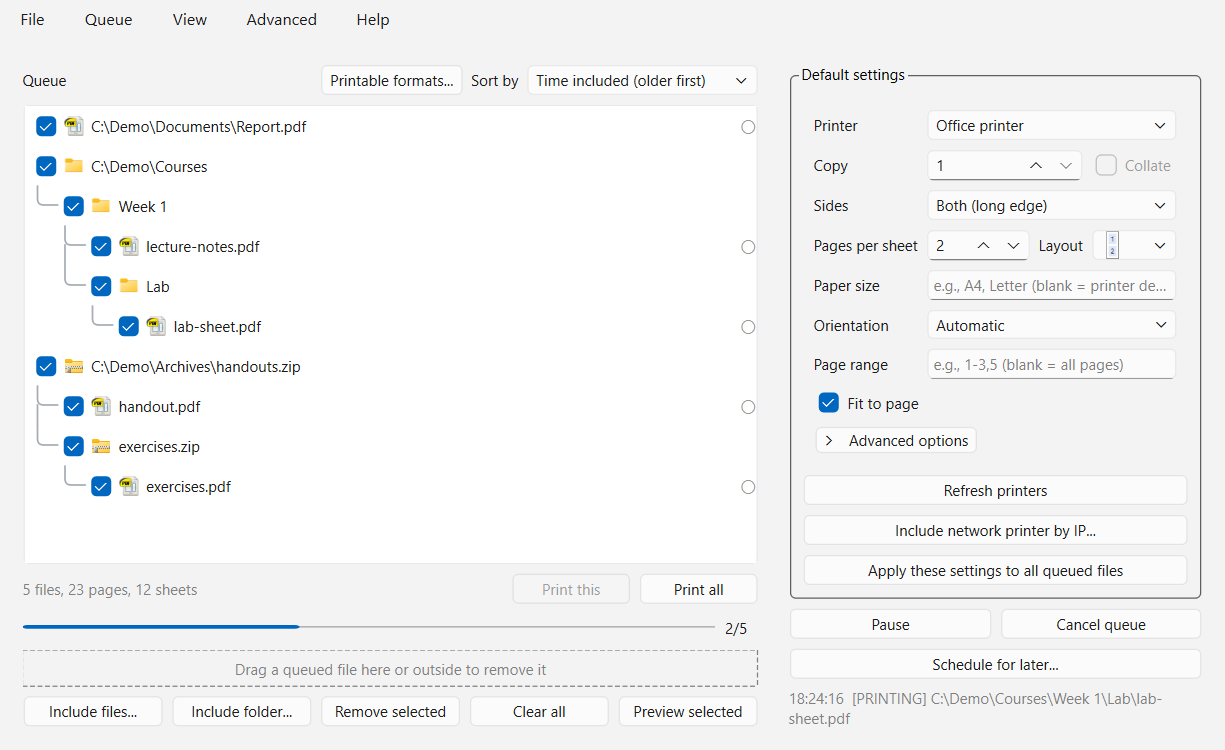
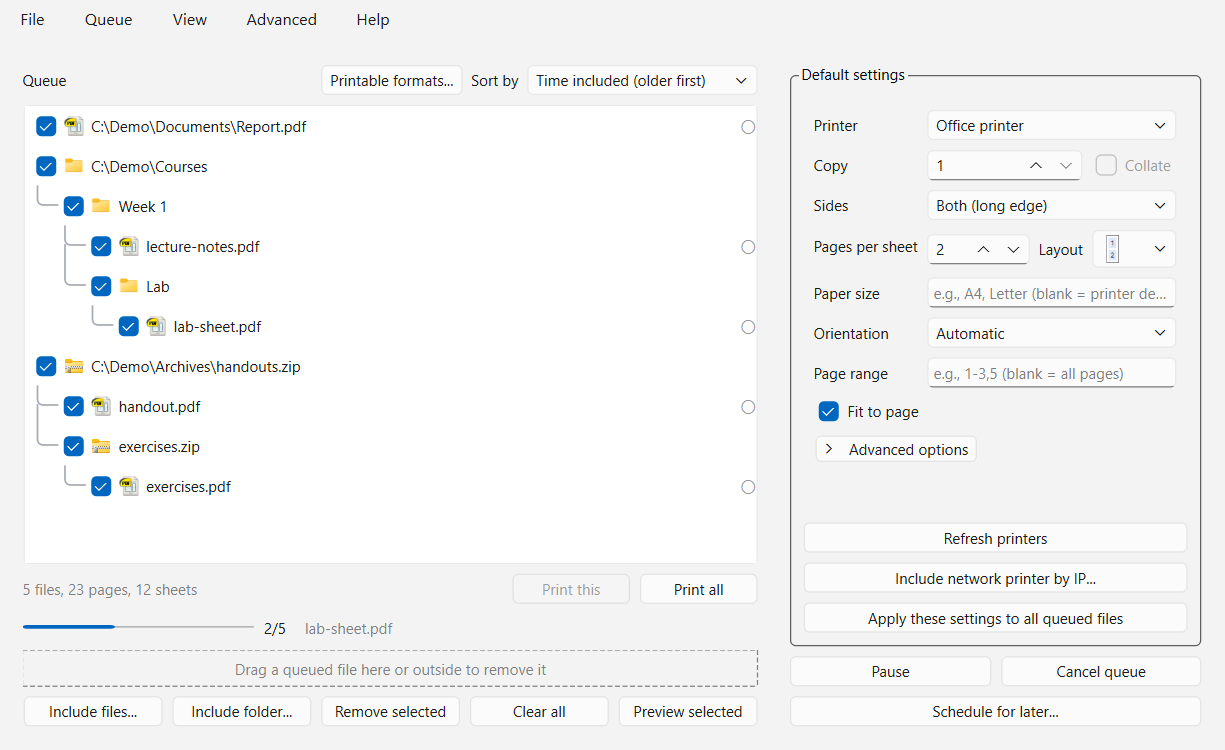
No log panel

diff --git a/printtool/gui/app.py b/printtool/gui/app.py
@@ -306,10 +306,22 @@ class MainWindow(QMainWindow):
         left.addLayout(queue_header)
         left.addWidget(self.file_list)
         left.addLayout(stats_row)
+        # A short bar with the file printing now beside it (its own name
+        # only, shortened in the middle when long).
         self.progress_bar = QProgressBar()
         self.progress_bar.setTextVisible(True)
-        self.progress_bar.hide()
-        left.addWidget(self.progress_bar)
+        self.progress_bar.setFixedWidth(220)
+        self.now_printing = QLabel()
+        self.now_printing.setStyleSheet("color: gray;")
+        self._progress_row = QWidget()
+        pr = QHBoxLayout(self._progress_row)
+        pr.setContentsMargins(0, 0, 0, 0)
+        pr.addWidget(self.progress_bar)
+        pr.addWidget(self.now_printing, 1)
+        self._progress_row.hide()
+        self.progress_bar.show = self._progress_row.show
+        self.progress_bar.hide = self._progress_row.hide
+        left.addWidget(self._progress_row)
         left.addWidget(self.remove_zone)
         left.addLayout(file_buttons)
 
@@ -347,22 +359,9 @@ class MainWindow(QMainWindow):
         self.log.setReadOnly(True)
 
         right = QVBoxLayout()
-        right.addWidget(settings_box)
+        right.addWidget(settings_box, 1)
         right.addLayout(queue_controls)
         right.addWidget(self.schedule_btn)
-        self.last_message = QLabel()
-        self.last_message.setStyleSheet("color: gray;")
-        self.last_message.setWordWrap(True)
-        # Only the latest line (the file printed, printing or next), with its time.
-        self.log.textChanged.connect(
-            lambda: self.last_message.setText(
-                f"{datetime.now():%H:%M:%S}  {(self.log.toPlainText().splitlines() or [''])[-1]}"
-                if self.log.toPlainText()
-                else ""
-            )
-        )
-        right.addWidget(self.last_message)
-        right.addStretch()
 
         root = QWidget()
         root_layout = QHBoxLayout(root)
@@ -1324,6 +1323,9 @@ class MainWindow(QMainWindow):
         if job is not None and status_value == JobStatus.PRINTING.value:
             pages_note = f"pages {job.settings.page_range}" if job.settings.page_range else "all pages"
             self.progress_bar.setFormat("%v/%m")
+            fm = self.now_printing.fontMetrics()
+            self.now_printing.setText(fm.elidedText(job.path.name, Qt.ElideMiddle, max(80, self.now_printing.width())))
+            self.now_printing.setToolTip(job.path.name)
         if job is not None and status_value != JobStatus.PRINTING.value:
             self.log.appendPlainText(
                 f"[{status_value.upper()}] {job.path}{(' - ' + message) if message else ''}"

diff --git a/CHANGELOG.md b/CHANGELOG.md
@@ -4,7 +4,7 @@
 - Sheet count beside files and pages.
 - Sort by time included, name, file size or page count, either way.
 - Advanced: Print order, starting a file on the back of the last sheet, removing the drive after printing; temporary copy on by default.
-- Layouts drawn to scale in a scrolling list; the last message replaces the log panel (full log under View > Log); no toolbar.
+- Layouts drawn to scale in a scrolling list; the file printing now beside a short progress bar; no log panel (View > Log) and no toolbar.
 - Subfolders show as their own rows, as nested zips do.
 
 ## Version 6
